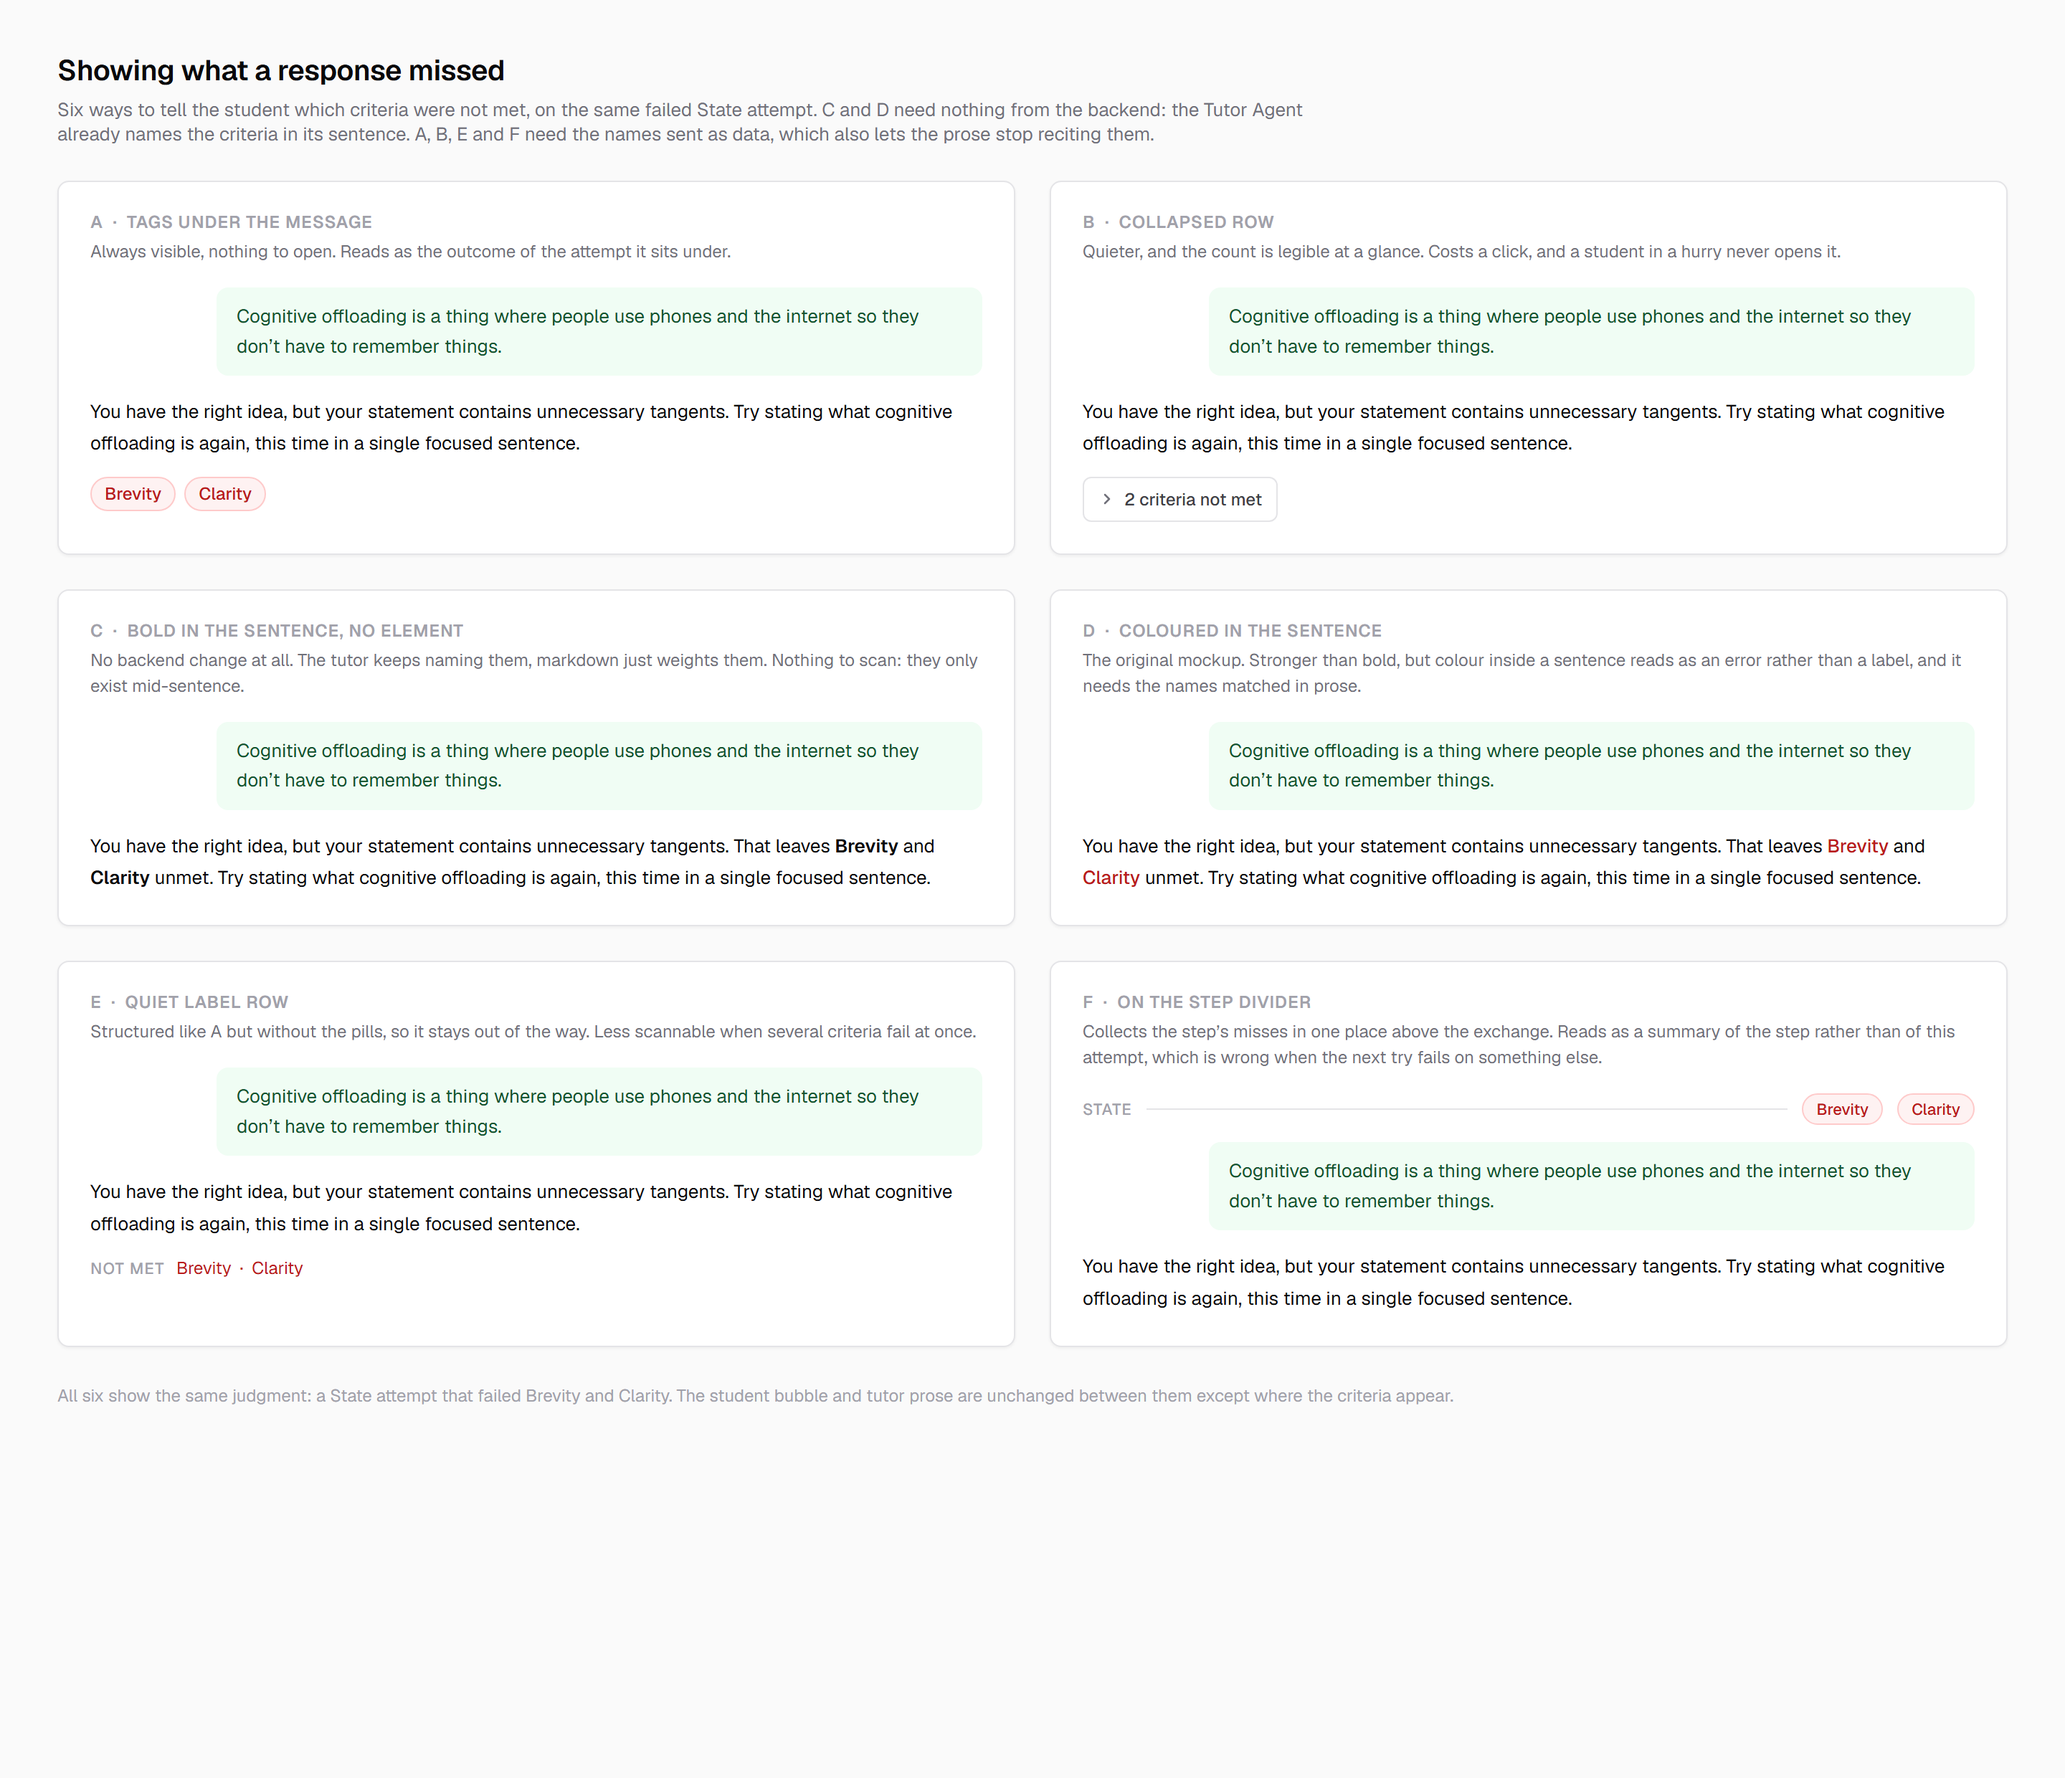
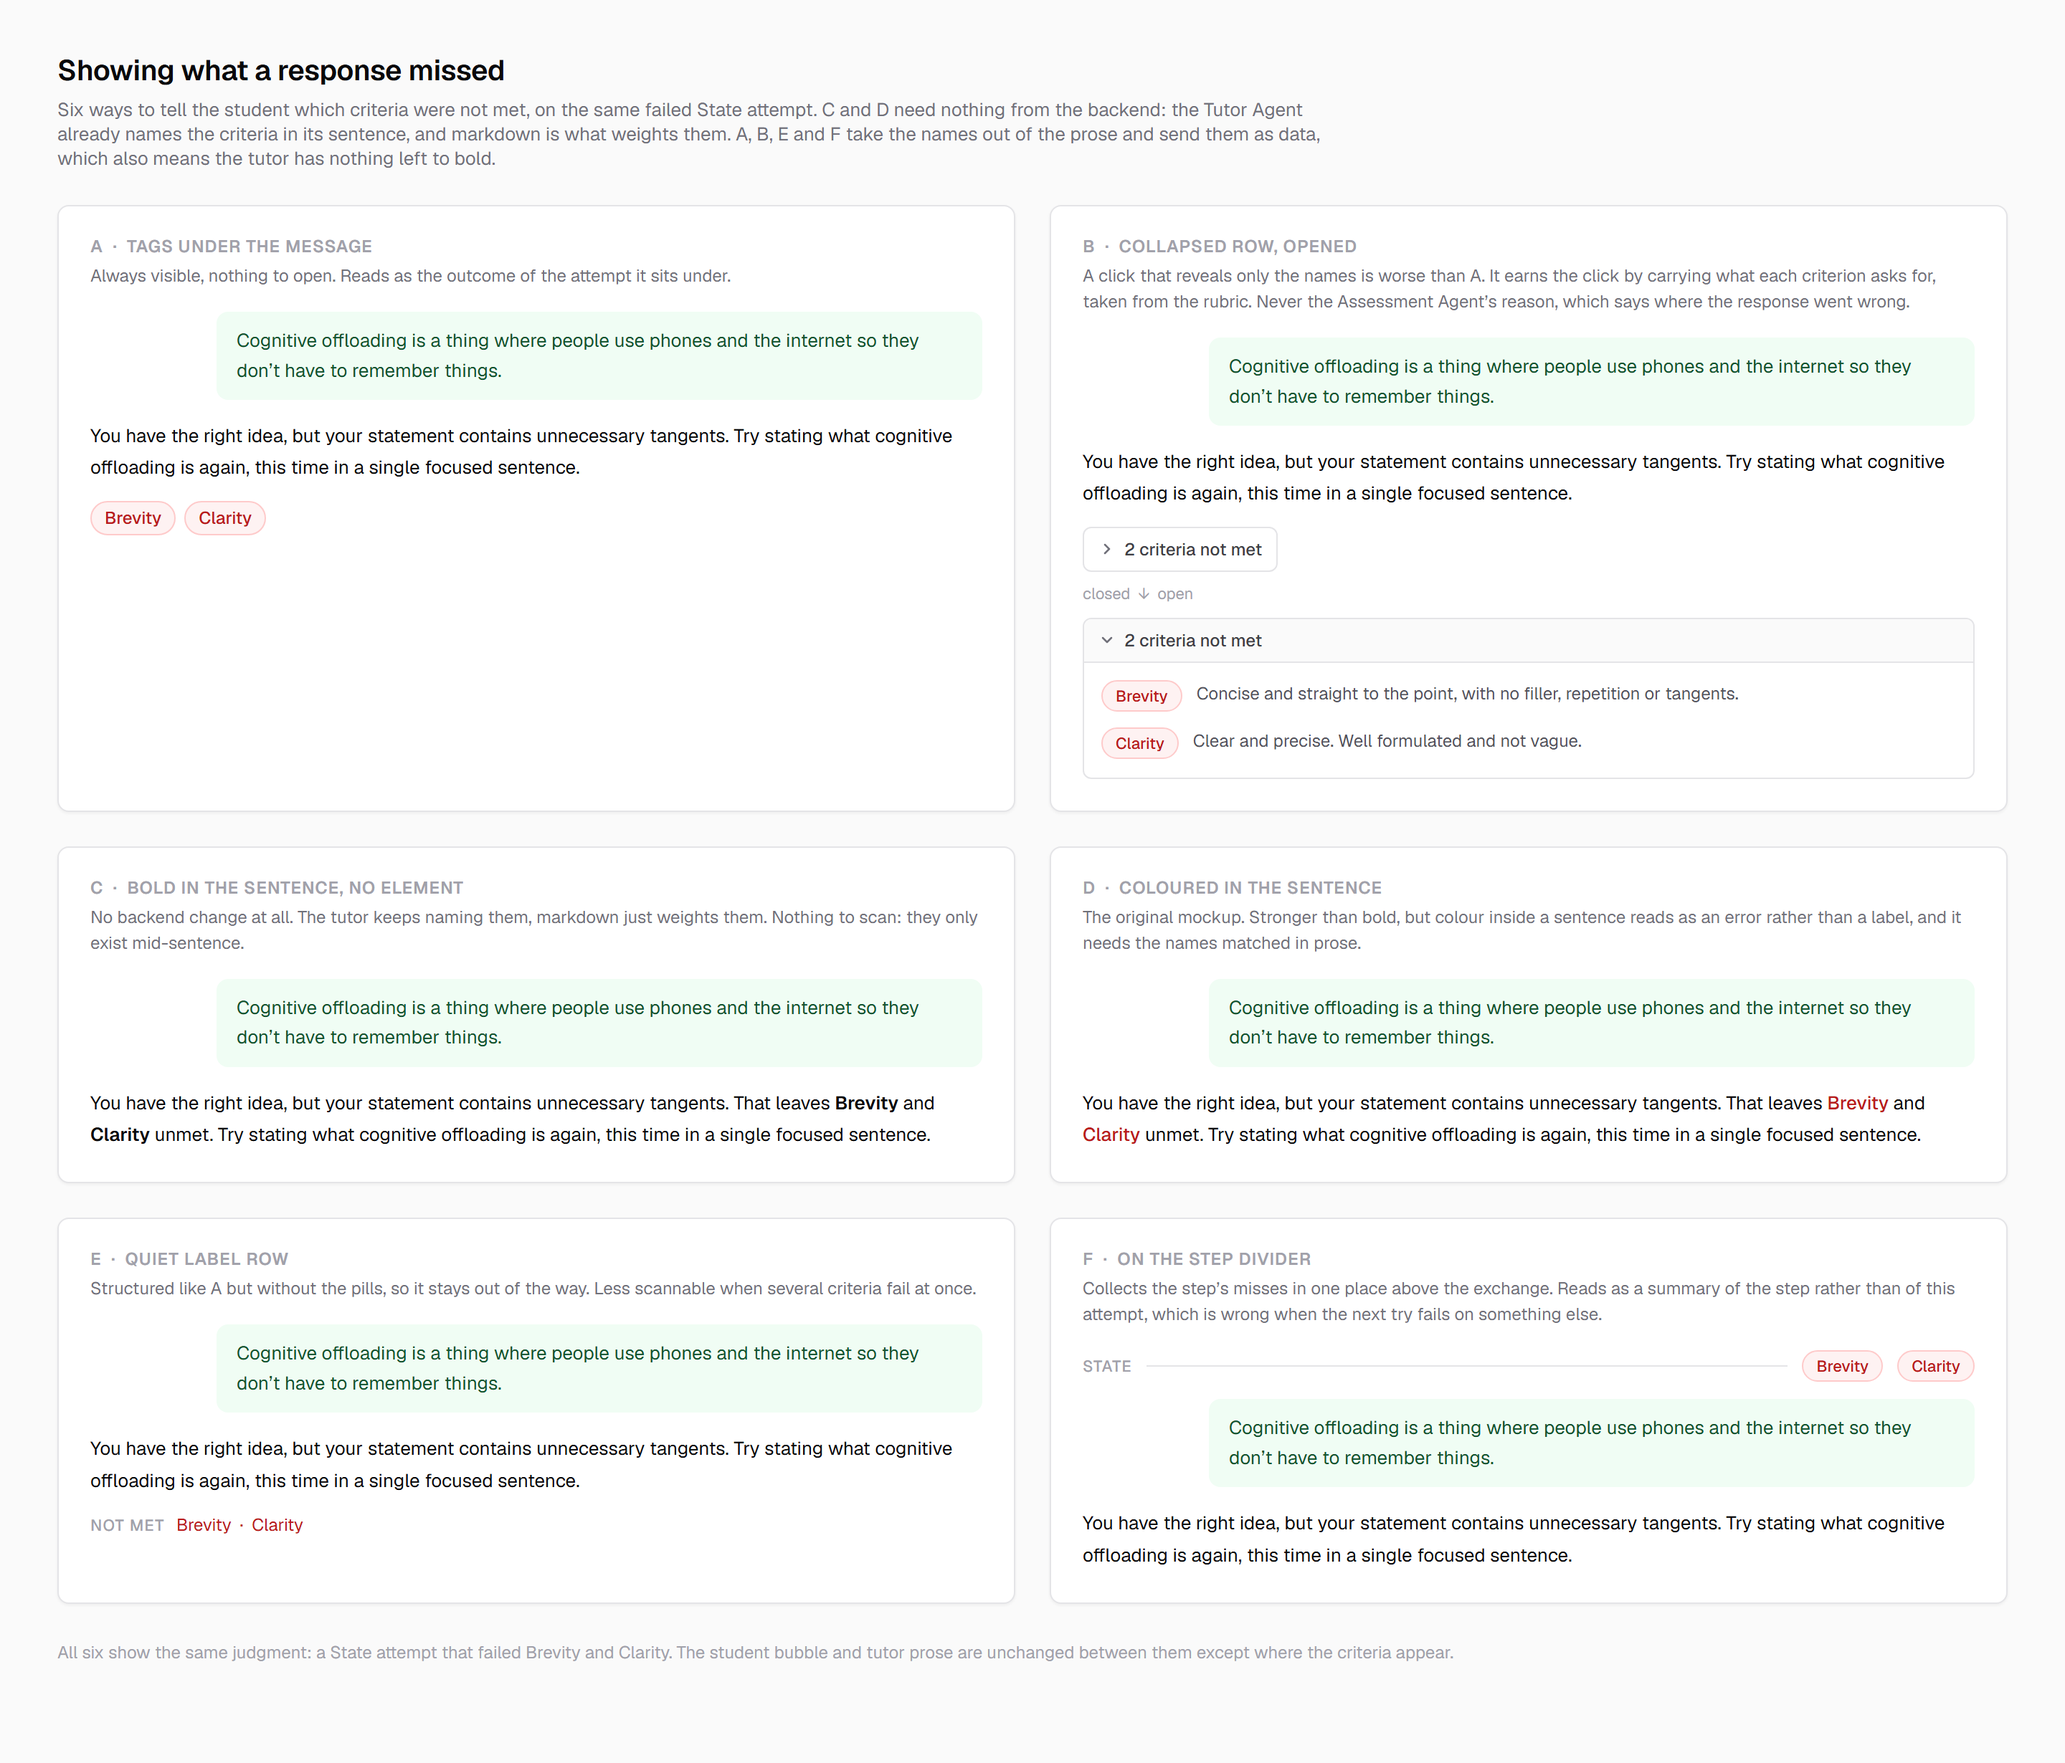
redraw the tutoring artboards and add the implementation screenshots

diff --git a/design/ReferencePanels.dc.html b/design/ReferencePanels.dc.html
@@ -17,7 +17,8 @@
     .pop-title { font-size: 11px; font-weight: 600; letter-spacing: 0.06em; text-transform: uppercase; color: #71717a; }
     .chip { display: inline-flex; align-items: center; height: 20px; padding: 0 8px; border-radius: 999px; border: 1px solid #e4e4e7; background: #fafafa; font-size: 11px; font-weight: 500; color: #3f3f46; flex-shrink: 0; }
     .chip-fail { border-color: #fecaca; background: #fef2f2; color: #b91c1c; }
-    .crit { display: flex; gap: 10px; align-items: flex-start; }
+    .crit { display: flex; gap: 12px; align-items: flex-start; }
+    .chip-col { width: 104px; flex-shrink: 0; display: flex; }
     .crit span.t { font-size: 12px; line-height: 1.55; color: #52525b; }
     .pdfbody { font-family: Georgia, 'Times New Roman', serif; font-size: 11px; line-height: 1.6; color: #1a1a1a; }
     .step-row { display: flex; align-items: center; justify-content: space-between; padding: 9px 16px; border-top: 1px solid #f4f4f5; cursor: pointer; }
@@ -125,11 +126,11 @@
         <svg width="13" height="13" viewBox="0 0 24 24" fill="none" stroke="#a1a1aa" stroke-width="2" stroke-linecap="round" style="cursor: pointer;"><path d="M18 6L6 18M6 6l12 12"></path></svg>
       </div>
       <div style="padding: 14px 16px 14px; display: flex; flex-direction: column; gap: 12px; max-height: 380px; overflow-y: auto;">
-        <div class="crit"><span class="chip chip-fail">Brevity</span><span class="t">The statement is concise and straight to the point. It does not contain any unnecessary filler, repetition, or tangents.</span></div>
-        <div class="crit"><span class="chip">Own Words</span><span class="t">The statement is the user&#x27;s own definition of the concept, in their own words. It is not directly copied or closely paraphrasing the text from the reading.</span></div>
-        <div class="crit"><span class="chip chip-fail">Clarity</span><span class="t">The statement is clear and precise. It is well-formulated and not vague.</span></div>
-        <div class="crit"><span class="chip">Completeness</span><span class="t">The statement captures the concept&#x27;s essential core component/s, not just one facet (if multiple).</span></div>
-        <div class="crit"><span class="chip">Accuracy</span><span class="t">The response is faithful to the reading: everything it asserts about the concept is correct and consistent with the source. It does not contradict the reading, misrepresent the concept, or rely on claims the source does not support.</span></div>
+        <div class="crit"><span class="chip-col"><span class="chip chip-fail">Brevity</span></span><span class="t">The statement is concise and straight to the point. It does not contain any unnecessary filler, repetition, or tangents.</span></div>
+        <div class="crit"><span class="chip-col"><span class="chip">Own Words</span></span><span class="t">The statement is the user&#x27;s own definition of the concept, in their own words. It is not directly copied or closely paraphrasing the text from the reading.</span></div>
+        <div class="crit"><span class="chip-col"><span class="chip chip-fail">Clarity</span></span><span class="t">The statement is clear and precise. It is well-formulated and not vague.</span></div>
+        <div class="crit"><span class="chip-col"><span class="chip">Completeness</span></span><span class="t">The statement captures the concept&#x27;s essential core component/s, not just one facet (if multiple).</span></div>
+        <div class="crit"><span class="chip-col"><span class="chip">Accuracy</span></span><span class="t">The response is faithful to the reading: everything it asserts about the concept is correct and consistent with the source. It does not contradict the reading, misrepresent the concept, or rely on claims the source does not support.</span></div>
       </div>
       <div style="padding: 9px 16px; background: #fafafa; border-top: 1px solid #e4e4e7; font-size: 11px; color: #71717a;">
         Red marks what your last attempt missed.

diff --git a/design/MainPdf.dc.html b/design/MainPdf.dc.html
@@ -143,7 +143,8 @@
             </div>
           </div>
 
-          <p style="margin: 0; font-size: 14px; line-height: 1.6; max-width: 540px; text-wrap: pretty;">You have the right idea, but your statement contains unnecessary tangents. That leaves <span style="font-weight: 500; color: #b91c1c;">Brevity</span> and <span style="font-weight: 500; color: #b91c1c;">Clarity</span> unmet. Try stating what cognitive offloading is again, this time in a single focused sentence.</p>
+          <p style="margin: 0; font-size: 14px; line-height: 1.6; max-width: 540px; text-wrap: pretty;">You have the right idea, but your statement contains unnecessary tangents. Try stating what cognitive offloading is again, this time in a single focused sentence.</p>
+          <div style="display: flex; gap: 6px; margin-top: 10px;"><span style="display: inline-flex; align-items: center; height: 22px; padding: 0 9px; border-radius: 999px; border: 1px solid #fecaca; background: #fef2f2; font-size: 12px; font-weight: 500; color: #b91c1c;">Brevity</span><span style="display: inline-flex; align-items: center; height: 22px; padding: 0 9px; border-radius: 999px; border: 1px solid #fecaca; background: #fef2f2; font-size: 12px; font-weight: 500; color: #b91c1c;">Clarity</span></div>
 
           <div style="display: flex; justify-content: flex-end;">
             <div style="max-width: 500px; background: {{bubble}}; border-radius: 8px; padding: 12px 14px;">
@@ -171,7 +172,8 @@
             </div>
           </div>
 
-          <p style="margin: 0; font-size: 14px; line-height: 1.6; max-width: 540px; text-wrap: pretty;">That is a start, but your response drifted into giving an example rather than extending the explanation of the concept itself. That leaves <span style="font-weight: 500; color: #b91c1c;">Coherence</span> unmet. Try expanding on your statement again, staying on the concept itself rather than moving to an instance of it.</p>
+          <p style="margin: 0; font-size: 14px; line-height: 1.6; max-width: 540px; text-wrap: pretty;">That is a start, but your response drifted into giving an example rather than extending the explanation of the concept itself. Try expanding on your statement again, staying on the concept itself rather than moving to an instance of it.</p>
+          <div style="display: flex; gap: 6px; margin-top: 10px;"><span style="display: inline-flex; align-items: center; height: 22px; padding: 0 9px; border-radius: 999px; border: 1px solid #fecaca; background: #fef2f2; font-size: 12px; font-weight: 500; color: #b91c1c;">Coherence</span></div>
 
         </div>
       </div>

diff --git a/design/Main.dc.html b/design/Main.dc.html
@@ -87,7 +87,8 @@
             </div>
           </div>
 
-          <p style="margin: 0; font-size: 14px; line-height: 1.6; max-width: 540px; text-wrap: pretty;">You have the right idea, but your statement contains unnecessary tangents. That leaves <span style="font-weight: 500; color: #b91c1c;">Brevity</span> and <span style="font-weight: 500; color: #b91c1c;">Clarity</span> unmet. Try stating what cognitive offloading is again, this time in a single focused sentence.</p>
+          <p style="margin: 0; font-size: 14px; line-height: 1.6; max-width: 540px; text-wrap: pretty;">You have the right idea, but your statement contains unnecessary tangents. Try stating what cognitive offloading is again, this time in a single focused sentence.</p>
+          <div style="display: flex; gap: 6px; margin-top: 10px;"><span style="display: inline-flex; align-items: center; height: 22px; padding: 0 9px; border-radius: 999px; border: 1px solid #fecaca; background: #fef2f2; font-size: 12px; font-weight: 500; color: #b91c1c;">Brevity</span><span style="display: inline-flex; align-items: center; height: 22px; padding: 0 9px; border-radius: 999px; border: 1px solid #fecaca; background: #fef2f2; font-size: 12px; font-weight: 500; color: #b91c1c;">Clarity</span></div>
 
           <div style="display: flex; justify-content: flex-end;">
             <div style="max-width: 500px; background: {{bubble}}; border-radius: 8px; padding: 12px 14px;">
@@ -115,7 +116,8 @@
             </div>
           </div>
 
-          <p style="margin: 0; font-size: 14px; line-height: 1.6; max-width: 540px; text-wrap: pretty;">That is a start, but your response drifted into giving an example rather than extending the explanation of the concept itself. That leaves <span style="font-weight: 500; color: #b91c1c;">Coherence</span> unmet. Try expanding on your statement again, staying on the concept itself rather than moving to an instance of it.</p>
+          <p style="margin: 0; font-size: 14px; line-height: 1.6; max-width: 540px; text-wrap: pretty;">That is a start, but your response drifted into giving an example rather than extending the explanation of the concept itself. Try expanding on your statement again, staying on the concept itself rather than moving to an instance of it.</p>
+          <div style="display: flex; gap: 6px; margin-top: 10px;"><span style="display: inline-flex; align-items: center; height: 22px; padding: 0 9px; border-radius: 999px; border: 1px solid #fecaca; background: #fef2f2; font-size: 12px; font-weight: 500; color: #b91c1c;">Coherence</span></div>
 
         </div>
       </div>

diff --git a/design/README.md b/design/README.md
@@ -34,6 +34,9 @@ design changes, so it always matches.
 | Reading step, text fallback | [png/03c-reading-step-text.png](png/03c-reading-step-text.png) |
 | Tutoring session | [png/04-tutoring-session.png](png/04-tutoring-session.png) |
 | Tutoring session, PDF reading | [png/04b-tutoring-pdf-reading.png](png/04b-tutoring-pdf-reading.png) |
+| Criterion feedback, six approaches | [png/04c-criterion-feedback.png](png/04c-criterion-feedback.png) |
+| Reference panel, components | [png/04d-panel-components.png](png/04d-panel-components.png) |
+| Reference panel, rubric | [png/04d-panel-rubric.png](png/04d-panel-rubric.png) |
 | Session review, student | [png/05-session-review.png](png/05-session-review.png) |
 | Session review, instructor | [png/05b-session-review-instructor.png](png/05b-session-review-instructor.png) |
 
@@ -59,6 +62,13 @@ artboard 5 shows a complete session and 5b a failed one.
   only the extracted text was enough. That argument rested on the agents being
   the only readers, which stopped being true once the student reads the document
   itself. `docs/context/data-model.md` records the reversal.
+- **4c chose A**, tags under the message. The Tutor Agent stops naming the
+  criteria in its prose as of prompt v2, so the interface labels them instead.
+  The other five are kept because the comparison is the argument: C and D cost
+  nothing on the backend, and losing that would make A look free.
+- **4d is where the vocabulary is explained.** Tags carry only names, which is
+  affordable because the rubric panel carries what each one asks for, in the
+  rubric's own words.
 - **3c is the step the app used to skip.** `student-tutoring-loop.md` has always
   called for the student to read first and say so explicitly; the earlier
   mockups folded that into the split screen.
